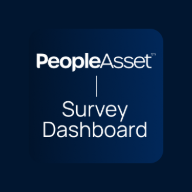
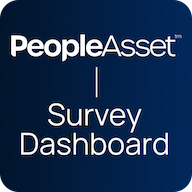
## 26 Oct (1)
- Updated the web app manifest icons

diff --git a/README.md b/README.md
@@ -1,5 +1,9 @@
 # Patch Notes
 
+## 26 Oct (1)
+
+- Updated the web app manifest icons
+
 ## 27 Aug 2025
 
 - Setup
